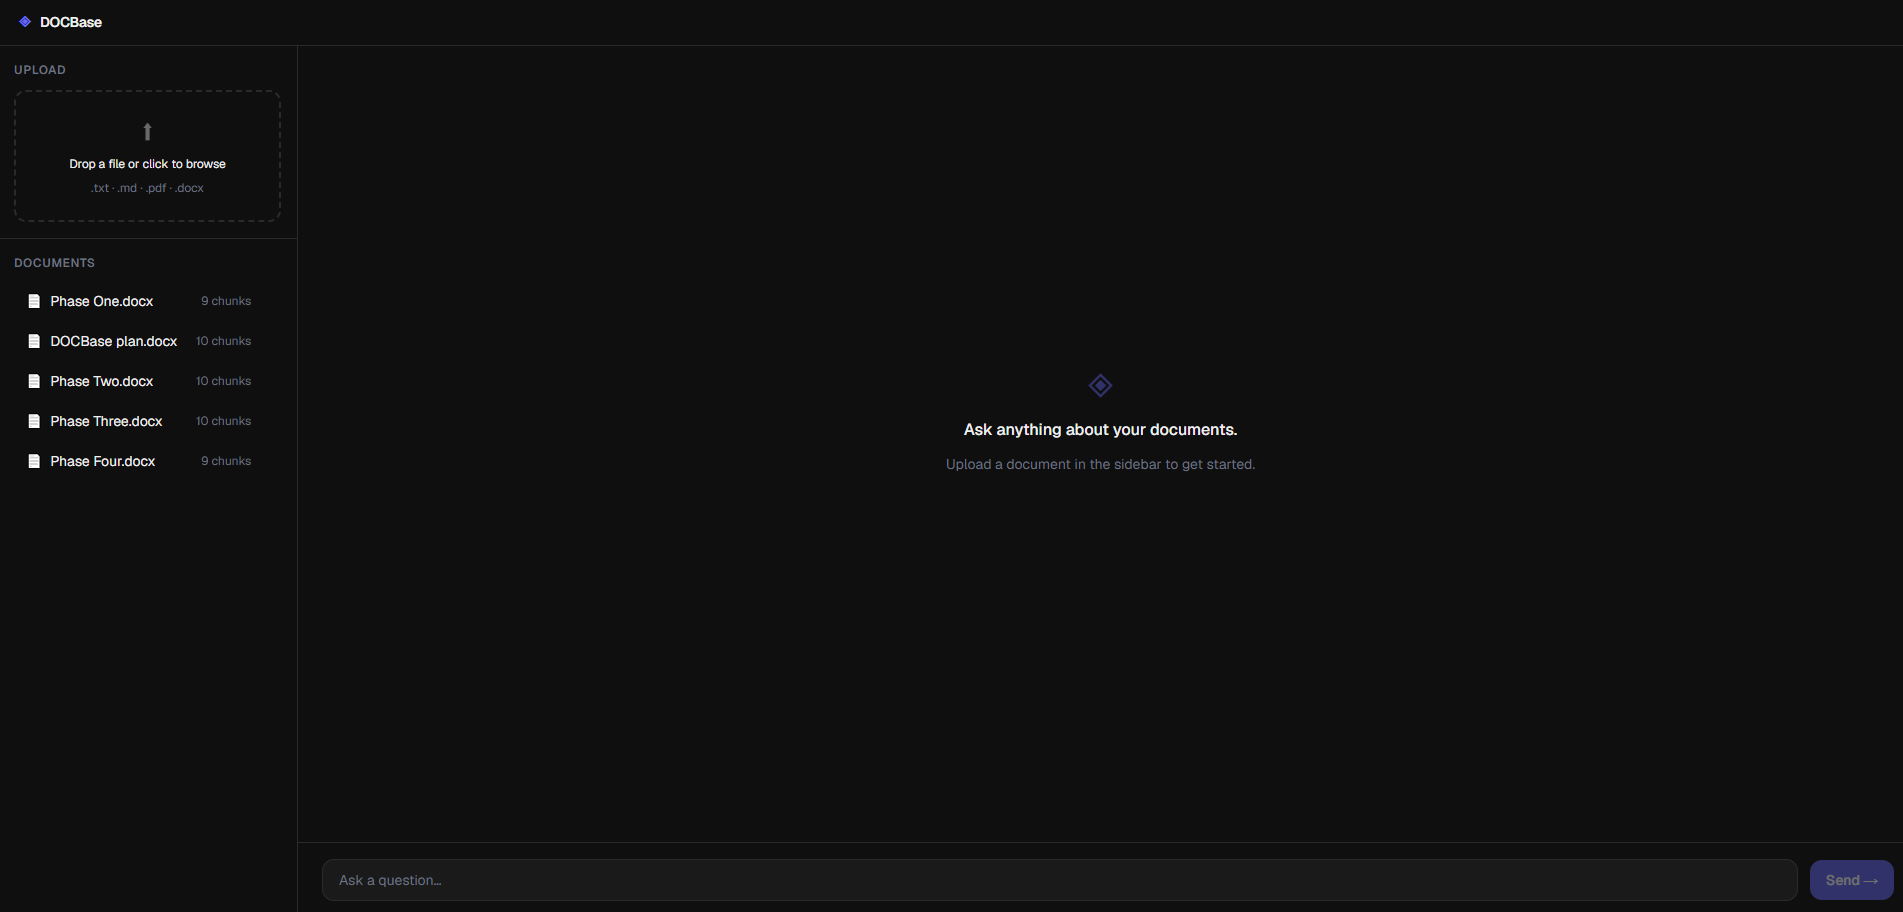
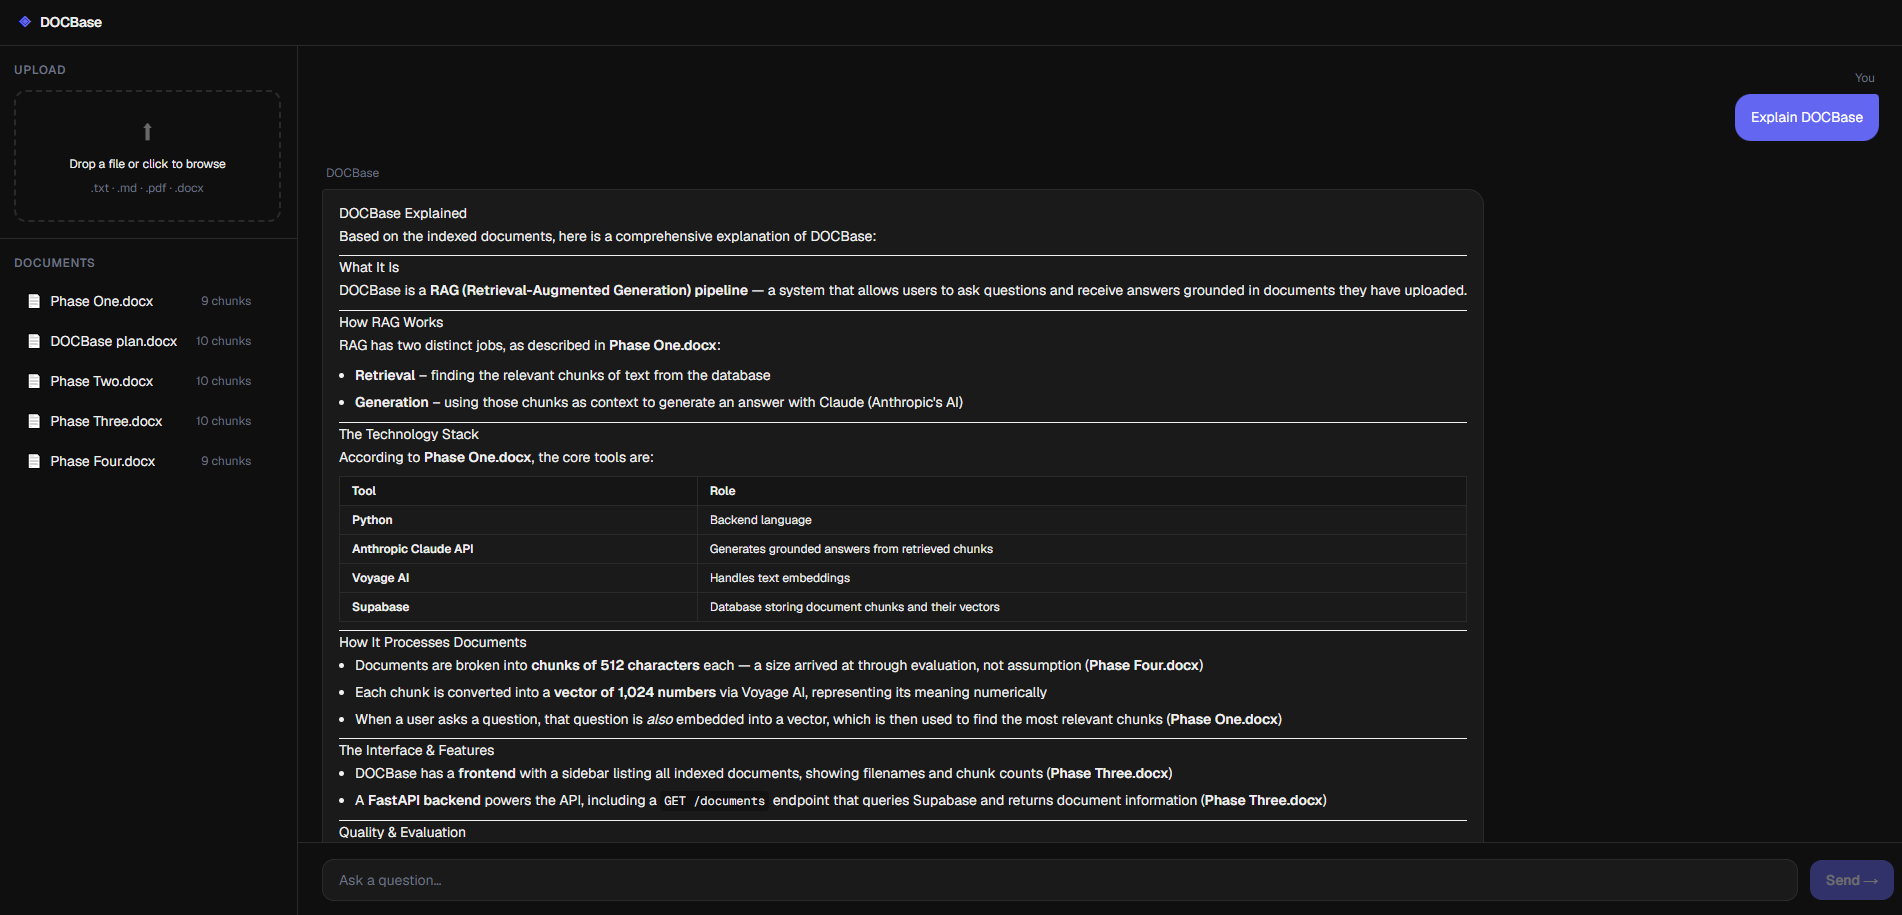
added images for my projects

diff --git a/components/Projects.tsx b/components/Projects.tsx
@@ -2,6 +2,7 @@
 
 import { useEffect, useRef } from "react";
 import Image from "next/image";
+import { FiArrowUpRight } from "react-icons/fi";
 import { EncryptedText } from "@/components/ui/encrypted-text";
 
 interface Project {
@@ -11,6 +12,8 @@ interface Project {
   /** Path to a screenshot in /public, e.g. "/images/docbase.png". Optional —
    * falls back to the placeholder label when omitted. */
   image?: string;
+  /** External link to the live project. When set, the title becomes a link. */
+  url?: string;
 }
 
 // Ordered most-important first.
@@ -18,33 +21,33 @@ const projects: Project[] = [
   {
     title: "DOCBase",
     description:
-      "A self-hosted RAG platform with a built-in MCP server: ingest documents, query them with cited answers, and expose the whole pipeline as tools to any LLM client.",
+      "RAG pipeline built from scratch in Python. Voyage AI embeddings, Supabase pgvector, Anthropic Claude API, MCP server for Claude Desktop integration. FastAPI + Docker backend on Railway, Next.js frontend on Vercel. 100% retrieval accuracy.",
     image: "/images/DOCBaseUI.PNG",
-    tags: ["Python", "FastAPI", "Next.js", "pgvector", "Docker", "Railway"],
+    tags: [
+      "Python",
+      "FastAPI",
+      "Next.js",
+      "Docker",
+      "Railway",
+      "VoyageAI",
+      "Vercel",
+      "MCP",
+    ],
+  },
+  {
+    title: "Spinal Cord Injury Assessment Tool",
+    description:
+      "A spinal cord injury assessment tool, built for clinicians at Middlemore Hospital. Replacing error-prone paper forms with a fast, auditable digital workflow. Made for my capstone project at AUT (image contains mock data)",
+    image: "/images/Spinal.PNG",
+    tags: ["Next.js", "Supabase", "Vercel", "ISNCSCI", "TypeScript"],
   },
   {
     title: "OSRS Loot Simulator",
     description:
       "Pulls live drop tables and Grand Exchange prices to Monte-Carlo thousands of kills and project realistic loot value over time.",
-    tags: ["Next.js", "TypeScript", "Redis"],
-  },
-  {
-    title: "Spinal Cord Injury Assessment Tool",
-    description:
-      "A clinical tool for scoring and tracking spinal cord injuries, replacing error-prone paper forms with a fast, auditable digital workflow.",
-    tags: ["React", "Supabase", "Vercel"],
-  },
-  {
-    title: "PipeWorks Plumbing",
-    description:
-      "An SEO-focused marketing site for a local plumber: service pages, booking enquiries, and a mobile-first build that loads fast.",
-    tags: ["Next.js", "TypeScript", "Tailwind", "Vercel"],
-  },
-  {
-    title: "Atlas Analytics",
-    description:
-      "Dummy project — a real-time analytics dashboard with custom charts, filters, and shareable reports.",
-    tags: ["React", "D3", "Node.js"],
+    url: "https://osrs-loot-simulator.vercel.app/",
+    image: "/images/OSRS.PNG",
+    tags: ["Next.js", "TypeScript", "Redis", "Vercel"],
   },
 ];
 
@@ -183,7 +186,28 @@ function ProjectCarousel({
 
             <div className="flex-1 p-[20px]">
               <h3 className="font-syne text-[24px] font-bold text-white">
-                {project.title}
+                {project.url ? (
+                  <a
+                    href={project.url}
+                    target="_blank"
+                    rel="noopener noreferrer"
+                    // Stop pointer events bubbling so opening the link doesn't
+                    // trigger the carousel's drag / play-pause handling.
+                    onPointerDown={(e) => e.stopPropagation()}
+                    onPointerUp={(e) => e.stopPropagation()}
+                    className="group inline-flex items-center gap-[6px] text-crimson transition-colors duration-200 hover:text-white"
+                  >
+                    <span className="underline decoration-crimson/40 decoration-1 underline-offset-[5px] transition-colors duration-200 group-hover:decoration-white">
+                      {project.title}
+                    </span>
+                    <FiArrowUpRight
+                      aria-hidden
+                      className="text-[20px] transition-transform duration-200 group-hover:-translate-y-[2px] group-hover:translate-x-[2px]"
+                    />
+                  </a>
+                ) : (
+                  project.title
+                )}
               </h3>
               <p className="mt-[8px] max-w-[70ch] text-[14px] font-normal leading-[1.7] text-white/50">
                 {project.description}